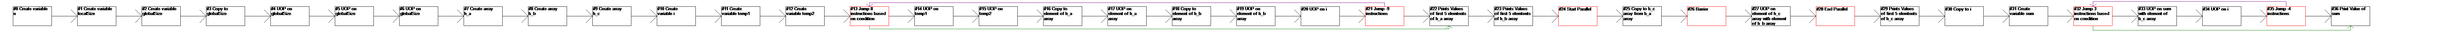
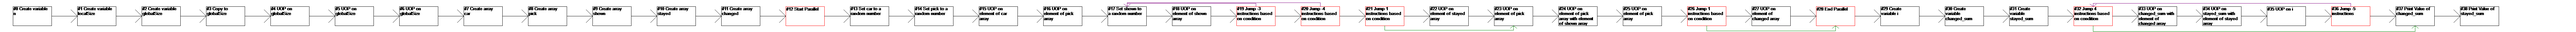
Monty hall example problem and some instruction fixes.

diff --git a/Szakdolgozat/Models/MockInstructionList.cs b/Szakdolgozat/Models/MockInstructionList.cs
@@ -21,6 +21,10 @@
                 case "vecAdd.cl":
                     Sum_Vector();
                     break;
+                case "monty.c":
+                case "monty.cl":
+                    Monty_Sim();
+                    break;
             }
         }
 
@@ -82,6 +86,73 @@
             _instructions.Add(new Instruction(InstructionType.UOP, "i", null, null, null, 1, null, "+"));
             _instructions.Add(new Instruction(InstructionType.JUMP, null, null, null, -4, null, null));
             _instructions.Add(new Instruction(InstructionType.VAR_PRINT, "sum", null, null, null, null, null));
+
+
+        }
+
+        private void Monty_Sim()
+        {
+            _instructions.Add(new Instruction(InstructionType.DECLARE, "n", "int", null, null, 10000, null));
+            _instructions.Add(new Instruction(InstructionType.DECLARE, "localSize", "int", null, null, 64, null));
+            _instructions.Add(new Instruction(InstructionType.DECLARE, "globalSize", "int", null, null, null, null));
+
+            _instructions.Add(new Instruction(InstructionType.COPY, "globalSize", "n", null, null, null, null));
+            _instructions.Add(new Instruction(InstructionType.UOP, "globalSize", "localSize", null, null, null, null, "/"));
+            _instructions.Add(new Instruction(InstructionType.UOP, "globalSize", null, null, null, null, null, "ceil"));
+            _instructions.Add(new Instruction(InstructionType.UOP, "globalSize", "localSize", null, null, null, null, "*"));
+            _instructions.Add(new Instruction(InstructionType.DECLARE_ARRAY, "car", "double", "n", null, null, null));
+            _instructions.Add(new Instruction(InstructionType.DECLARE_ARRAY, "pick", "double", "n", null, null, null));
+            _instructions.Add(new Instruction(InstructionType.DECLARE_ARRAY, "shown", "double", "n", null, null, null));
+            _instructions.Add(new Instruction(InstructionType.DECLARE_ARRAY, "stayed", "double", "n", null, null, null));
+            _instructions.Add(new Instruction(InstructionType.DECLARE_ARRAY, "changed", "double", "n", null, null, null));
+
+            
+            
+
+            
+            _instructions.Add(new Instruction(InstructionType.PARALLEL_START, null, null, null, null, null, null));
+
+            _instructions.Add(new Instruction(InstructionType.RANDOM, "car", null, null, null, 0, 3));
+            _instructions.Add(new Instruction(InstructionType.RANDOM, "pick", null, null, null, 0, 3));
+            _instructions.Add(new Instruction(InstructionType.UOP_TO_ARRAY, "car", null, null, null, null, null, "floor"));
+            _instructions.Add(new Instruction(InstructionType.UOP_TO_ARRAY, "pick", null, null, null, null, null, "floor"));
+
+            _instructions.Add(new Instruction(InstructionType.RANDOM, "shown", null, null, null, 0, 3));
+            _instructions.Add(new Instruction(InstructionType.UOP_TO_ARRAY, "shown", null, null, null, null, null, "floor"));
+            _instructions.Add(new Instruction(InstructionType.J_IF_EQUAL, "shown", "car", null, -3, null, null));
+            _instructions.Add(new Instruction(InstructionType.J_IF_EQUAL, "shown", "pick", null, -4, null, null));
+            _instructions.Add(new Instruction(InstructionType.J_IF_NOT_EQUAL, "pick", "car", null, 1, null, null));
+            _instructions.Add(new Instruction(InstructionType.UOP_TO_ARRAY, "stayed", null, null, null, 1, null, "+"));
+
+            _instructions.Add(new Instruction(InstructionType.UOP_TO_ARRAY, "pick", null, null, null, -1, null, "*"));
+            _instructions.Add(new Instruction(InstructionType.UOP_ARRAY_ARRAY, "pick", "shown", null, null, null, null, "-"));
+            _instructions.Add(new Instruction(InstructionType.UOP_TO_ARRAY, "pick", null, null, null, 3, null, "+"));
+
+            _instructions.Add(new Instruction(InstructionType.J_IF_NOT_EQUAL, "pick", "car", null, 1, null, null));
+            _instructions.Add(new Instruction(InstructionType.UOP_TO_ARRAY, "changed", null, null, null, 1, null, "+"));
+            
+
+            _instructions.Add(new Instruction(InstructionType.PARALLEL_END, "n", null, null, null, null, null));
+
+
+
+            
+
+
+
+            _instructions.Add(new Instruction(InstructionType.DECLARE, "i", "int", null, null, 0, null));
+
+            _instructions.Add(new Instruction(InstructionType.DECLARE, "changed_sum", "double", null, null, 0, null));
+            _instructions.Add(new Instruction(InstructionType.DECLARE, "stayed_sum", "double", null, null, 0, null));
+
+            _instructions.Add(new Instruction(InstructionType.J_IF_EQUAL, "i", "n", null, 4, null, null));
+            _instructions.Add(new Instruction(InstructionType.UOP_FROM_ARRAY, "changed_sum", "changed", "i", null, null, null, "+", "i"));
+            _instructions.Add(new Instruction(InstructionType.UOP_FROM_ARRAY, "stayed_sum", "stayed", "i", null, null, null, "+", "i"));
+            _instructions.Add(new Instruction(InstructionType.UOP, "i", null, null, null, 1, null, "+"));
+            _instructions.Add(new Instruction(InstructionType.JUMP, null, null, null, -5, null, null));
+
+            _instructions.Add(new Instruction(InstructionType.VAR_PRINT, "changed_sum", null, null, null, null, null));
+            _instructions.Add(new Instruction(InstructionType.VAR_PRINT, "stayed_sum", null, null, null, null, null));
 
 
         }

diff --git a/Szakdolgozat/Services/InstructionHandler.cs b/Szakdolgozat/Services/InstructionHandler.cs
@@ -74,6 +74,10 @@ namespace Szakdolgozat.Services
                     JumpIfEqual(instruction.var1, instruction.var2, instruction.index, _object, ref i, parallelIndex);
                     counter++;
                     break;
+                case InstructionType.J_IF_NOT_EQUAL:
+                    JumpIfNotEqual(instruction.var1, instruction.var2, instruction.index, _object, ref i, parallelIndex);
+                    counter++;
+                    break;
                 case InstructionType.J_IF_GREATER:
                     JumpIfGreater(instruction.var1, instruction.var2, instruction.index, _object, ref i, parallelIndex);
                     counter++;
@@ -124,7 +128,7 @@ namespace Szakdolgozat.Services
                     ParallelStart();
                     break;
                 case InstructionType.RANDOM:
-                    SetRandom(instruction.var1, instruction.index, instruction.value1, instruction.value2, _object,parallelIndex);
+                    SetRandom(instruction.var1, instruction.var2, instruction.index, instruction.value1, instruction.value2, _object,parallelIndex);
                     break;
             }
             i++;
@@ -186,6 +190,7 @@ namespace Szakdolgozat.Services
                     imageService.AddNextInstruction(ref bitmap, $"#{i} Barrier", true);
                     break;
                 case InstructionType.J_IF_EQUAL:
+                case InstructionType.J_IF_NOT_EQUAL:
                 case InstructionType.J_IF_GREATER:
                 case InstructionType.J_IF_GREATER_EQUAL:
                 case InstructionType.J_IF_LESS:
@@ -204,6 +209,7 @@ namespace Szakdolgozat.Services
             {
                 case InstructionType.JUMP:
                 case InstructionType.J_IF_EQUAL:
+                case InstructionType.J_IF_NOT_EQUAL:
                 case InstructionType.J_IF_GREATER:
                 case InstructionType.J_IF_GREATER_EQUAL:
                 case InstructionType.J_IF_LESS:
@@ -367,6 +373,24 @@ namespace Szakdolgozat.Services
                 }
             }
             
+        }
+        private void JumpIfNotEqual(string name, string name2, int? index, object _object, ref int i, int? parallelIndex)
+        {
+            if (parallelIndex == null)
+            {
+                if ((double)_object.GetType().GetField(name).GetValue(_object) != (double)_object.GetType().GetField(name2).GetValue(_object))
+                {
+                    i += (int)index.Value;
+                }
+            }
+            else
+            {
+                if (((IList<double>)_object.GetType().GetField(name).GetValue(_object))[parallelIndex.Value] != ((IList<double>)_object.GetType().GetField(name2).GetValue(_object))[parallelIndex.Value])
+                {
+                    i += (int)index.Value;
+                }
+            }
+
         }
         private void JumpIfGreater(string name, string name2, int? index, object _object, ref int i, int? parallelIndex)
         {
@@ -533,6 +557,9 @@ namespace Szakdolgozat.Services
                     break;
                 case "sqrt":
                     ((IList<double>)_object.GetType().GetField(arrayName).GetValue(_object))[arrayIndex] = Math.Sqrt(((IList<double>)_object.GetType().GetField(arrayName).GetValue(_object))[arrayIndex]);
+                    break;
+                case "floor":
+                    ((IList<double>)_object.GetType().GetField(arrayName).GetValue(_object))[arrayIndex] = Math.Floor(((IList<double>)_object.GetType().GetField(arrayName).GetValue(_object))[arrayIndex]);
                     break;
             }
         }
@@ -707,7 +734,7 @@ namespace Szakdolgozat.Services
             counter+=parallelCounter;
             memory+=parallelMemory;
         }
-        private void SetRandom(string name, int? index,double? min,double? max, object _object, int? parallelIndex)
+        private void SetRandom(string name, string stringIndex, int? index,double? min,double? max, object _object, int? parallelIndex)
         {
             var rand = new Random();
             if (parallelIndex.HasValue)
@@ -718,6 +745,11 @@ namespace Szakdolgozat.Services
             if (index.HasValue)
             {
                 ((IList<double>)_object.GetType().GetField(name).GetValue(_object))[index.Value] = min.Value + (rand.NextDouble() * max.Value);
+                return;
+            }
+            if (stringIndex!=null)
+            {
+                ((IList<double>)_object.GetType().GetField(name).GetValue(_object))[Int32.Parse(stringIndex)] = min.Value + (rand.NextDouble() * max.Value);
                 return;
             }
             _object.GetType().GetField(name).SetValue(_object, min.Value + (rand.NextDouble() * max.Value));

diff --git a/Szakdolgozat/Documents/OpenCL példák/monty_hall/monty.c b/Szakdolgozat/Documents/OpenCL példák/monty_hall/monty.c
@@ -96,9 +96,9 @@ int main( int argc, char* argv[] )
     err  = clSetKernelArg(kernel, 0, sizeof(cl_mem), &d_a);
     err |= clSetKernelArg(kernel, 1, sizeof(cl_mem), &d_b);
     err |= clSetKernelArg(kernel, 2, sizeof(cl_mem), &d_c);
-	err |= clSetKernelArg(kernel, 2, sizeof(cl_mem), &d_d);
-	err |= clSetKernelArg(kernel, 2, sizeof(cl_mem), &d_e);
-    err |= clSetKernelArg(kernel, 3, sizeof(unsigned int), &n);
+	err |= clSetKernelArg(kernel, 3, sizeof(cl_mem), &d_d);
+	err |= clSetKernelArg(kernel, 4, sizeof(cl_mem), &d_e);
+    err |= clSetKernelArg(kernel, 5, sizeof(unsigned int), &n);
  
     // Execute the kernel over the entire range of the data set  
     err = clEnqueueNDRangeKernel(queue, kernel, 1, NULL, &globalSize, &localSize,
@@ -114,19 +114,35 @@ int main( int argc, char* argv[] )
     clEnqueueReadBuffer(queue, d_e, CL_TRUE, 0,
                                 bytes, changed, 0, NULL, NULL );
  
+	int i;
+	int changed_sum;
+	int stayed_sum;
+	for(i=0;i<n;i++)
+	{
+		stayed_sum+=stayed[i];
+		changed_sum+=changed[i];
+	}
+	
+	printf("Stayed win out of 10000: %d\n", stayed_sum);
+	printf("Changed win out of 10000: %d\n", changed_sum);
+	
     // release OpenCL resources
     clReleaseMemObject(d_a);
     clReleaseMemObject(d_b);
     clReleaseMemObject(d_c);
+	clReleaseMemObject(d_d);
+	clReleaseMemObject(d_e);
     clReleaseProgram(program);
     clReleaseKernel(kernel);
     clReleaseCommandQueue(queue);
     clReleaseContext(context);
  
     //release host memory
-    free(h_a);
-    free(h_b);
-    free(h_c);
+    free(car);
+    free(changed);
+    free(shown);
+	free(pick);
+	free(stayed);
  
     return 0;
 }

diff --git a/Szakdolgozat/Models/InstructionType.cs b/Szakdolgozat/Models/InstructionType.cs
@@ -20,6 +20,7 @@
         BIOP_ARRAY_ARRAY,
         JUMP,
         J_IF_EQUAL,
+        J_IF_NOT_EQUAL,
         J_IF_GREATER,
         J_IF_GREATER_EQUAL,
         J_IF_LESS,
